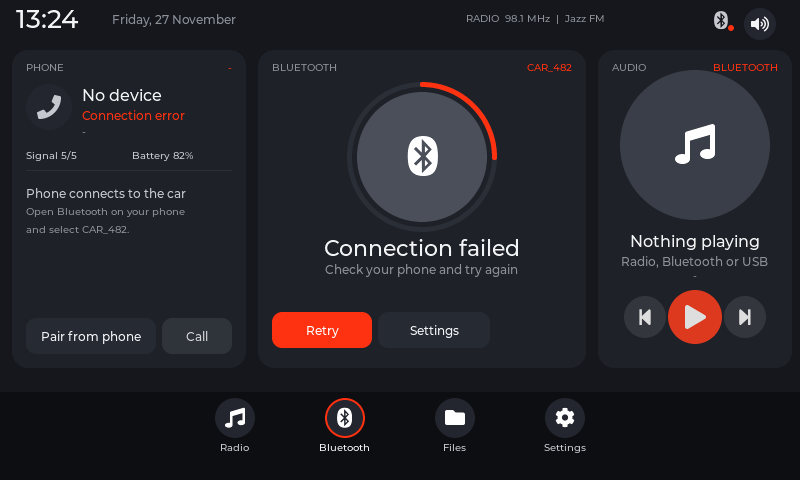
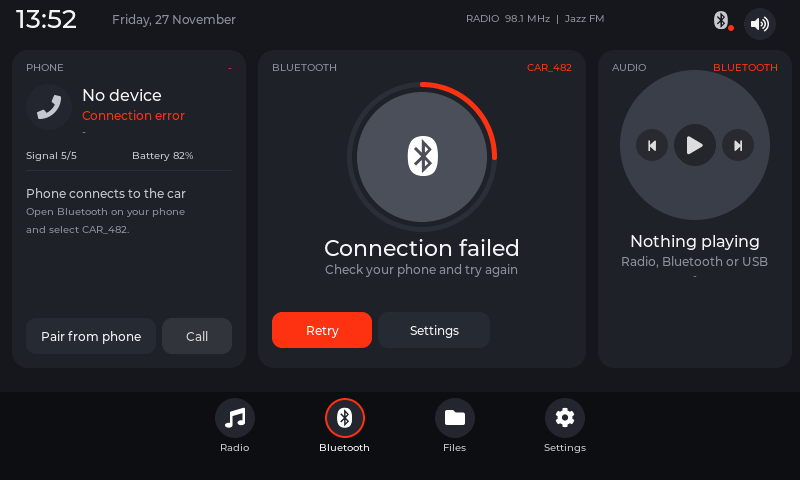
audio: overlay prev/play/next controls on main album art

Changed region(s): [[0.7812, 0.25, 0.9688, 0.3438], [0.7812, 0.5938, 0.9375, 0.7188], [0.0625, 0.0, 0.0938, 0.0625]]

diff --git a/prototype/index.html b/prototype/index.html
@@ -220,7 +220,13 @@
     display:grid;place-items:center;
     transition:background .25s ease, filter .25s ease;
   }
-  .art svg{width:60px;height:60px}
+  .art > svg{width:60px;height:60px}
+  .art-controls{position:absolute;inset:0;display:flex;align-items:center;justify-content:center;gap:6px}
+  .art-btn{border:0;border-radius:50%;background:rgba(8,9,12,.62);color:#fff;width:32px;height:32px;display:grid;place-items:center;cursor:pointer}
+  .art-btn.lg{width:42px;height:42px;background:rgba(8,9,12,.72)}
+  .art-btn svg{width:14px;height:14px}
+  .art-btn.lg svg{width:18px;height:18px}
+  .art-btn:active{transform:scale(.95)}
   .art.off{background:radial-gradient(circle at 34% 28%, #3A3E48, #23262E 70%);filter:saturate(.2)}
   .track{font-size:16px;font-weight:600;text-align:center;margin-top:8px;white-space:nowrap;overflow:hidden;text-overflow:ellipsis;padding:0 4px}
   .artist{font-size:12px;color:var(--muted);text-align:center;margin-top:2px;white-space:nowrap;overflow:hidden;text-overflow:ellipsis;padding:0 4px}
@@ -629,16 +635,17 @@
         <circle id="artRing" cx="68" cy="68" r="63" fill="none" stroke="var(--accent)" stroke-width="3"
                 stroke-linecap="round" stroke-dasharray="396" stroke-dashoffset="150"/>
       </svg>
-      <div class="art" id="art"><svg style="color:#fff"><use href="#i-note"/></svg></div>
+      <div class="art" id="art">
+        <div class="art-controls">
+          <button class="art-btn" id="btnPrev" title="Previous"><svg><use href="#i-prev"/></svg></button>
+          <button class="art-btn lg" id="btnPlay" title="Play"><svg><use href="#i-play"/></svg></button>
+          <button class="art-btn" id="btnNext" title="Next"><svg><use href="#i-next"/></svg></button>
+        </div>
+      </div>
     </div>
     <div class="track" id="track">Test Song</div>
     <div class="artist" id="artist">Demo Artist</div>
     <div class="time" id="time">1:08 / 3:35</div>
-    <div class="media-actions">
-      <button class="circle-btn sm" id="btnPrev" title="Previous"><svg><use href="#i-prev"/></svg></button>
-      <button class="circle-btn lg" id="btnPlay" title="Play"><svg><use href="#i-play"/></svg></button>
-      <button class="circle-btn sm" id="btnNext" title="Next"><svg><use href="#i-next"/></svg></button>
-    </div>
   </section>
 
   <!-- DOCK -->
@@ -784,7 +791,7 @@
         <div class="sub-label" style="margin-top:12px">About</div>
         <div class="about-grid">
           <span>Bluetooth</span><b>CAR_482</b>
-          <span>UI</span><b>LVGL 9.3 / v0.8.1</b>
+          <span>UI</span><b>LVGL 9.3 / v0.8.2</b>
           <span>BT link</span><b>55 AA LEN CMD DATA CHK</b>
         </div>
       </div>
@@ -904,7 +911,7 @@
 <div id="testbar">
   <span class="tb-title">TEST</span>
   <span class="tb-state" id="testState">connected</span>
-  <span class="tb-ver">web v0.8.1</span>
+  <span class="tb-ver">web v0.8.2</span>
   <span class="tb-sep"></span>
   <button data-state="off">Off</button>
   <button data-state="ready">Ready</button>
@@ -1898,7 +1905,8 @@
   el('playerPlay').addEventListener('click', () => go(state.mode === 'playing' ? 'connected' : 'playing'));
   el('playerNext').addEventListener('click', () => el('btnNext').click());
   el('playerPrev').addEventListener('click', () => el('btnPrev').click());
-  el('art').addEventListener('click', () => {
+  el('art').addEventListener('click', (e) => {
+    if (e.target.closest('.art-btn')) return;
     if (state.mode === 'playing') { playerExpanded = true; renderPlayer(); }
   });
 

diff --git a/app/ui.c b/app/ui.c
@@ -345,7 +345,6 @@ static void apply_accent(uint32_t c) {
     if (phone_source) lv_obj_set_style_text_color(phone_source, col(accent), 0);
     if (bt_name_lbl) lv_obj_set_style_text_color(bt_name_lbl, col(accent), 0);
     if (audio_source) lv_obj_set_style_text_color(audio_source, col(accent), 0);
-    if (play_btn) lv_obj_set_style_bg_color(play_btn, col(accent), 0);
     if (dock_circles[0]) update_dock(screen_idx);
     ui_update();
 }
@@ -728,6 +727,19 @@ static void layout_bt_actions(bool connected, bool narrow) {
     }
 }
 
+static void layout_art_controls(int d) {
+    if (!prev_btn || !play_btn || !next_btn) return;
+    const int sb = 32, pb = 42, gap = 6;
+    int x = (d - (sb + pb + sb + gap * 2)) / 2;
+    int y = (d - pb) / 2;
+    lv_obj_set_pos(prev_btn, x, y + 5);
+    lv_obj_set_size(prev_btn, sb, sb);
+    lv_obj_set_pos(play_btn, x + sb + gap, y);
+    lv_obj_set_size(play_btn, pb, pb);
+    lv_obj_set_pos(next_btn, x + sb + gap + pb + gap, y + 5);
+    lv_obj_set_size(next_btn, sb, sb);
+}
+
 static void apply_home_layout(void) {
     if (!phone_card || !bt_card || !audio_card) return;
     bool big = M && M->state == BT_PLAYING;
@@ -797,15 +809,7 @@ static void apply_home_layout(void) {
     lv_obj_set_width(artist_lbl, aw - 16);
     lv_obj_set_pos(time_pos_lbl, 8, big ? 238 : 220);
     lv_obj_set_width(time_pos_lbl, aw - 16);
-    if (big) {
-        lv_obj_set_pos(prev_btn, 62, 258);
-        lv_obj_set_pos(play_btn, 114, 252);
-        lv_obj_set_pos(next_btn, 178, 258);
-    } else {
-        lv_obj_set_pos(prev_btn, 26, 246);
-        lv_obj_set_pos(play_btn, 70, 240);
-        lv_obj_set_pos(next_btn, 126, 246);
-    }
+    layout_art_controls(d);
 }
 static void update_bt(void) {
     bool connected = bt_sim_connected(M->state);
@@ -1216,22 +1220,25 @@ void ui_init(bt_model_t *model) {
     audio_source = label(audio, "BLUETOOTH", 90, 12, 90, 14, &lv_font_montserrat_10, accent, LV_TEXT_ALIGN_RIGHT);
 
     art_circle = circle(audio, 22, 20, 150, accent);
-    icon_center(art_circle, LV_SYMBOL_AUDIO, &lv_font_montserrat_40, 0xFFFFFF);
     lv_obj_add_event_cb(art_circle, art_open_cb, LV_EVENT_CLICKED, NULL);
+
+    prev_btn = button(art_circle, LV_SYMBOL_PREV, 16, 59, 32, 32, 0x0D0E11, 0xFFFFFF,
+                      &lv_font_montserrat_12, prev_cb, NULL);
+    lv_obj_set_style_radius(prev_btn, LV_RADIUS_CIRCLE, 0);
+    lv_obj_set_style_bg_opa(prev_btn, LV_OPA_60, 0);
+    play_btn = button(art_circle, LV_SYMBOL_PLAY, 54, 54, 42, 42, 0x0D0E11, 0xFFFFFF,
+                      &lv_font_montserrat_18, pc_cb, &play_lbl);
+    lv_obj_set_style_radius(play_btn, LV_RADIUS_CIRCLE, 0);
+    lv_obj_set_style_bg_opa(play_btn, LV_OPA_70, 0);
+    next_btn = button(art_circle, LV_SYMBOL_NEXT, 102, 59, 32, 32, 0x0D0E11, 0xFFFFFF,
+                      &lv_font_montserrat_12, next_cb, NULL);
+    lv_obj_set_style_radius(next_btn, LV_RADIUS_CIRCLE, 0);
+    lv_obj_set_style_bg_opa(next_btn, LV_OPA_60, 0);
 
     track_lbl = label(audio, "Test Song", 8, 182, 178, 22, &lv_font_montserrat_16, C_TEXT, LV_TEXT_ALIGN_CENTER);
     artist_lbl = label(audio, "Demo Artist", 8, 204, 178, 16, &lv_font_montserrat_12, C_MUTED, LV_TEXT_ALIGN_CENTER);
     time_pos_lbl = label(audio, "1:08 / 3:35", 8, 220, 178, 14, &lv_font_montserrat_10, C_MUTED, LV_TEXT_ALIGN_CENTER);
 
-    prev_btn = button(audio, LV_SYMBOL_PREV, 26, 246, 42, 42, C_BTN, 0xFFFFFF,
-                      &lv_font_montserrat_18, prev_cb, NULL);
-    lv_obj_set_style_radius(prev_btn, LV_RADIUS_CIRCLE, 0);
-    play_btn = button(audio, LV_SYMBOL_PLAY, 70, 240, 54, 54, accent, 0xFFFFFF,
-                      &lv_font_montserrat_24, pc_cb, &play_lbl);
-    lv_obj_set_style_radius(play_btn, LV_RADIUS_CIRCLE, 0);
-    next_btn = button(audio, LV_SYMBOL_NEXT, 126, 246, 42, 42, C_BTN, 0xFFFFFF,
-                      &lv_font_montserrat_18, next_cb, NULL);
-    lv_obj_set_style_radius(next_btn, LV_RADIUS_CIRCLE, 0);
 
     /* ── dock: Radio, Bluetooth, Files, Settings ────────────── */
     lv_obj_t *dock = box(scr, 0, 392, 800, 88, C_DOCK, 0);

diff --git a/app/panels.c b/app/panels.c
@@ -1124,7 +1124,7 @@ static void build_settings(lv_obj_t *parent) {
     }
 
     label(settings_panel, "ABOUT", 24, 214, 80, 14, &lv_font_montserrat_10, C_MUTED, LV_TEXT_ALIGN_LEFT);
-    label(settings_panel, "CAR_482 / v0.8.1 / LVGL", 120, 214, 320, 14,
+    label(settings_panel, "CAR_482 / v0.8.2 / LVGL", 120, 214, 320, 14,
           &lv_font_montserrat_10, C_TEXT, LV_TEXT_ALIGN_LEFT);
     label(settings_panel, "BT 55 AA LEN CMD DATA CHK", 120, 230, 320, 14,
           &lv_font_montserrat_10, C_TEXT, LV_TEXT_ALIGN_LEFT);

diff --git a/README.md b/README.md
@@ -131,7 +131,7 @@ Switch **Theme → Light** for a daytime palette. The screensaver follows the th
 
 ![Now Playing](docs/screenshots/playing.png)
 
-When Bluetooth music is playing, the Audio card grows wider than the Bluetooth status card, with larger album art and track text. The full Now Playing panel opens when you tap the album art; it is not forced over the home screen.
+When Bluetooth music is playing, the Audio card grows wider than the Bluetooth status card, with larger album art and track text. The album art has **overlay prev / play-pause / next buttons**; the old bottom control row is gone. Tap the art outside those buttons to open the full Now Playing panel; it is not forced over the home screen.
 
 ### Call
 

diff --git a/docs/RELEASES.md b/docs/RELEASES.md
@@ -3,7 +3,7 @@
 ## Versioning
 
 - `VERSION` is the current UI version.
-- Tags use `vMAJOR.MINOR.PATCH` (for example `v0.8.1`).
+- Tags use `vMAJOR.MINOR.PATCH` (for example `v0.8.2`).
 - Every push to `main` builds and tests the emulator, the ARMv5 framebuffer binary and the patched SPI image.
 - A tag matching `v*` also publishes a GitHub Release with the build artifacts.
 
@@ -26,8 +26,8 @@ $EDITOR VERSION README.md
 
 # 3. Commit, tag and push
 git add VERSION README.md
-git commit -m "release: v0.8.1"
-git tag v0.8.1
+git commit -m "release: v0.8.2"
+git tag v0.8.2
 git push origin main --tags
 ```
 
